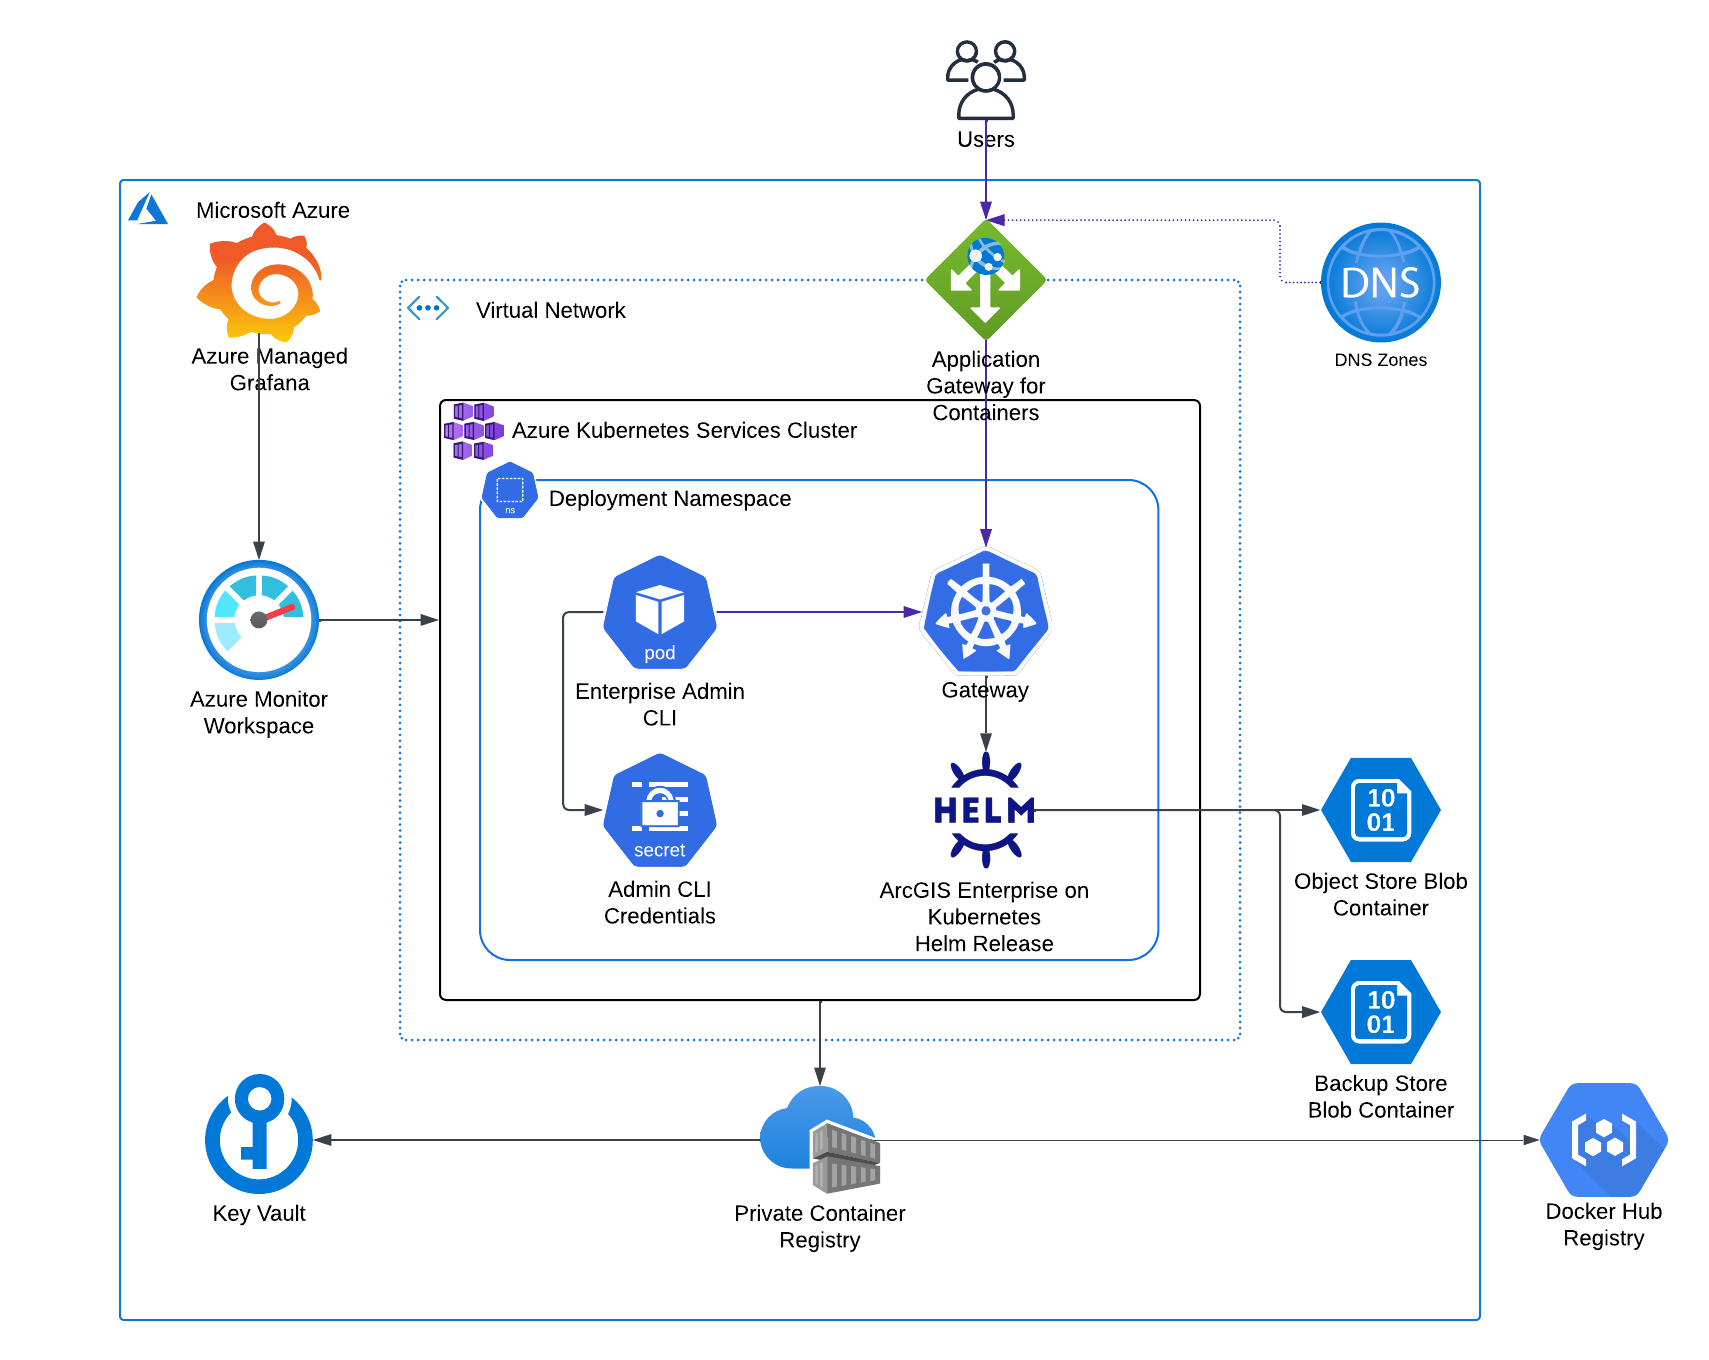
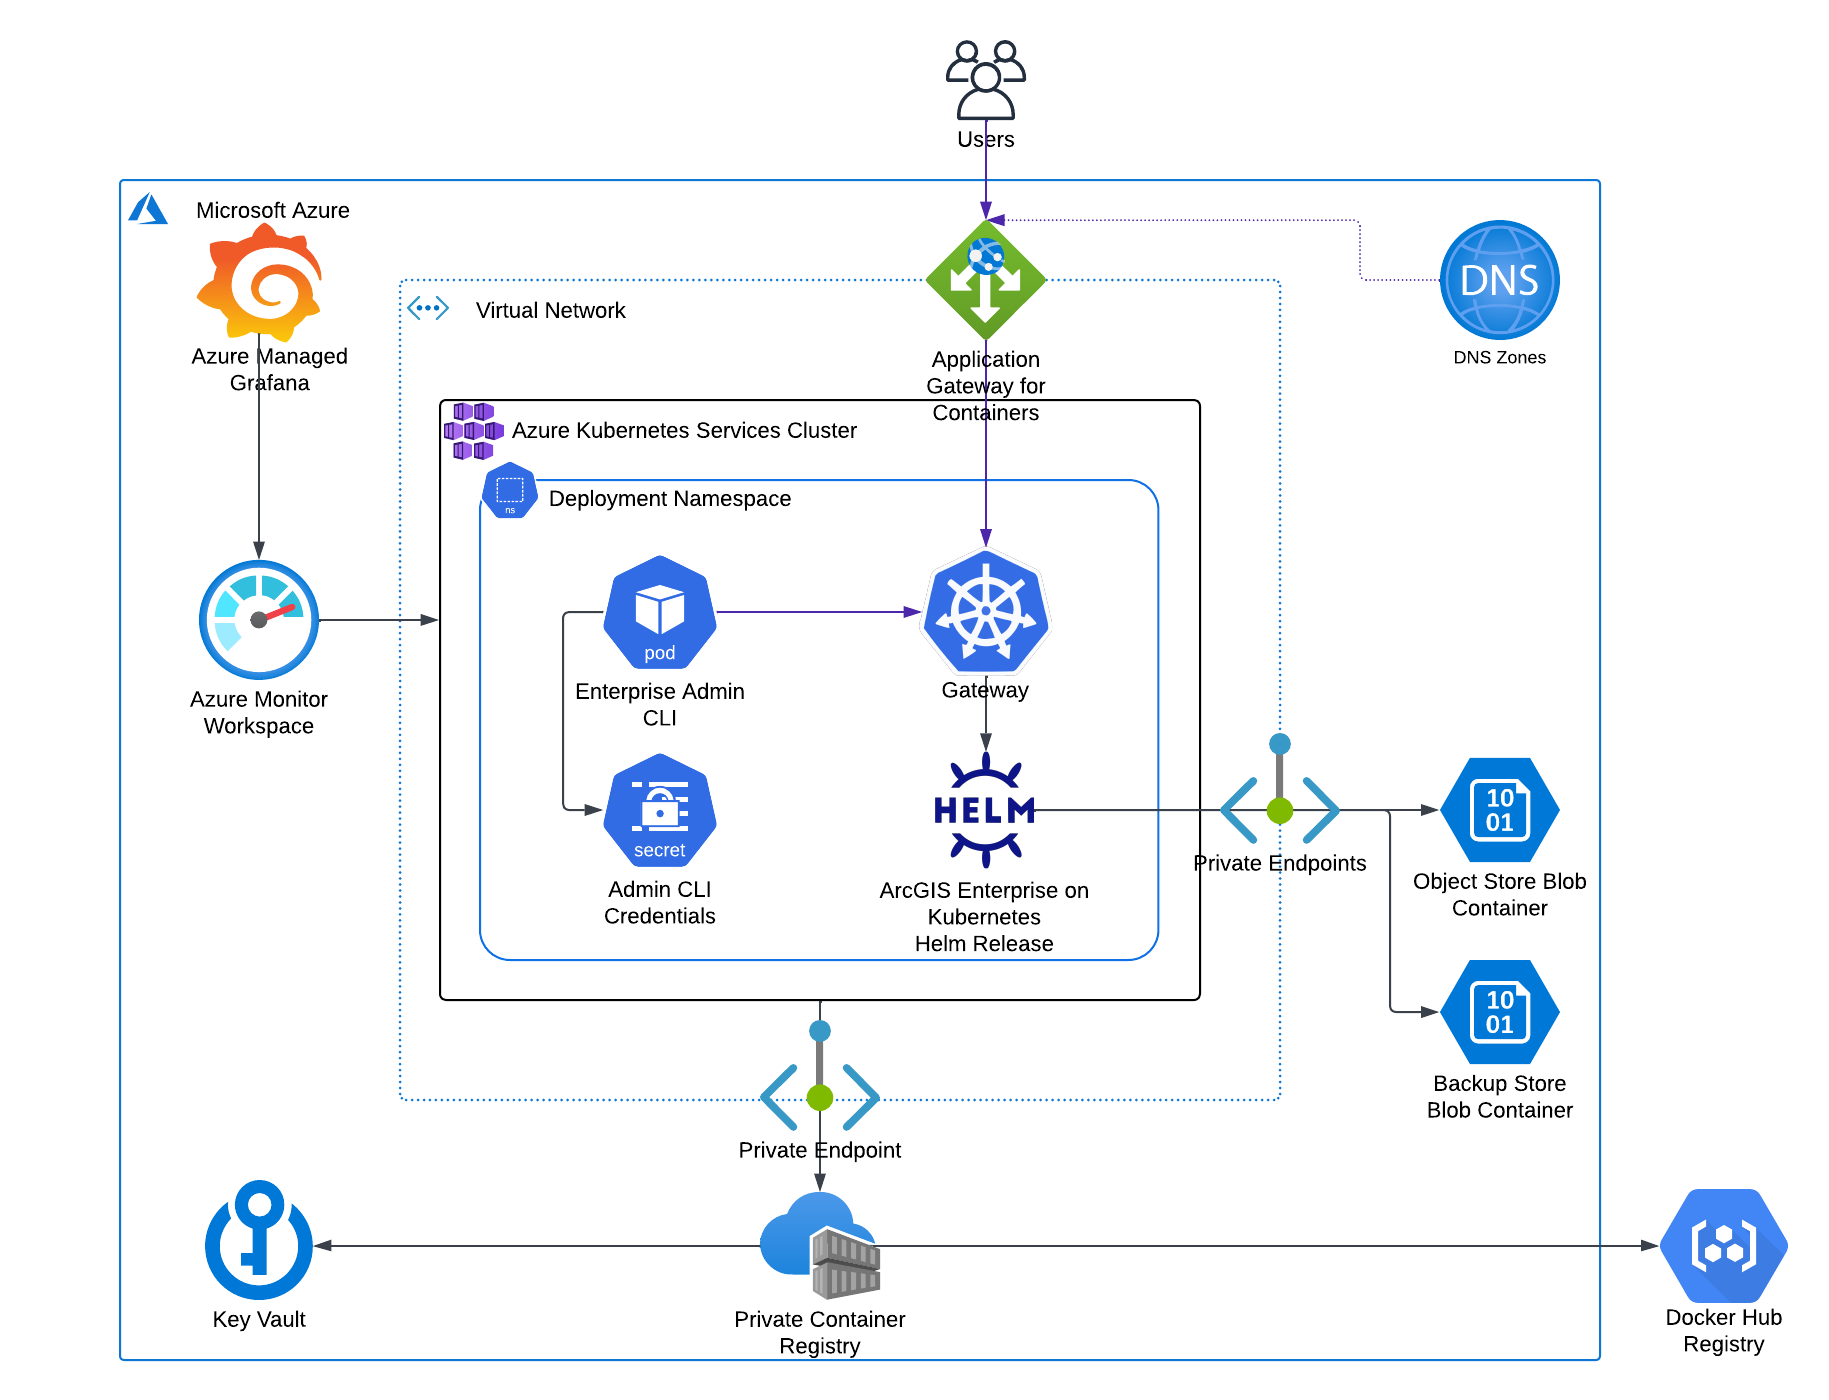
#132 Use private endpoints for Azure blob stores

diff --git a/azure/arcgis-site-core/infrastructure-core/README.md b/azure/arcgis-site-core/infrastructure-core/README.md
@@ -26,7 +26,6 @@ Attributes of the resources are stored as secrets in the Azure Key Vault created
 | internal-subnet-N | Id of internal subnet N |
 | private-subnet-N | Id of private subnet N |
 | storage-account-name | Storage account name |
-| storage-account-key | Storage account key |
 
 ## Requirements
 
@@ -52,7 +51,6 @@ Attributes of the resources are stored as secrets in the Azure Key Vault created
 | [azurerm_key_vault_secret.app_gateway_subnets](https://registry.terraform.io/providers/hashicorp/azurerm/latest/docs/resources/key_vault_secret) | resource |
 | [azurerm_key_vault_secret.internal_subnets](https://registry.terraform.io/providers/hashicorp/azurerm/latest/docs/resources/key_vault_secret) | resource |
 | [azurerm_key_vault_secret.private_subnets](https://registry.terraform.io/providers/hashicorp/azurerm/latest/docs/resources/key_vault_secret) | resource |
-| [azurerm_key_vault_secret.storage_account_key](https://registry.terraform.io/providers/hashicorp/azurerm/latest/docs/resources/key_vault_secret) | resource |
 | [azurerm_key_vault_secret.storage_account_name](https://registry.terraform.io/providers/hashicorp/azurerm/latest/docs/resources/key_vault_secret) | resource |
 | [azurerm_key_vault_secret.vnet](https://registry.terraform.io/providers/hashicorp/azurerm/latest/docs/resources/key_vault_secret) | resource |
 | [azurerm_nat_gateway.nat](https://registry.terraform.io/providers/hashicorp/azurerm/latest/docs/resources/nat_gateway) | resource |
@@ -68,6 +66,9 @@ Attributes of the resources are stored as secrets in the Azure Key Vault created
 | [azurerm_network_security_rule.allow_http_outbound](https://registry.terraform.io/providers/hashicorp/azurerm/latest/docs/resources/network_security_rule) | resource |
 | [azurerm_network_security_rule.allow_https_inbound](https://registry.terraform.io/providers/hashicorp/azurerm/latest/docs/resources/network_security_rule) | resource |
 | [azurerm_network_security_rule.allow_ssh_rdp_outbound](https://registry.terraform.io/providers/hashicorp/azurerm/latest/docs/resources/network_security_rule) | resource |
+| [azurerm_private_dns_zone.blob_private_dns_zone](https://registry.terraform.io/providers/hashicorp/azurerm/latest/docs/resources/private_dns_zone) | resource |
+| [azurerm_private_dns_zone_virtual_network_link.blob_private_dns_zone_virtual_network_link](https://registry.terraform.io/providers/hashicorp/azurerm/latest/docs/resources/private_dns_zone_virtual_network_link) | resource |
+| [azurerm_private_endpoint.site_store_private_endpoint](https://registry.terraform.io/providers/hashicorp/azurerm/latest/docs/resources/private_endpoint) | resource |
 | [azurerm_public_ip.bastion](https://registry.terraform.io/providers/hashicorp/azurerm/latest/docs/resources/public_ip) | resource |
 | [azurerm_public_ip.nat](https://registry.terraform.io/providers/hashicorp/azurerm/latest/docs/resources/public_ip) | resource |
 | [azurerm_resource_group.site_rg](https://registry.terraform.io/providers/hashicorp/azurerm/latest/docs/resources/resource_group) | resource |

diff --git a/azure/arcgis-enterprise-k8s/organization/modules/storage/README.md b/azure/arcgis-enterprise-k8s/organization/modules/storage/README.md
@@ -5,6 +5,7 @@ The module:
 
 * Creates an Azure resource group for the organization's stores,
 * Creates an Azure storage account and a blob container for the organization's object store,
+* Creates an Azure private endpoint for the blob store,
 * Grants the specified principal Storage Blob Data Contributor role in the storage accounts, and
 * Creates cloud config JSON file for the object store.
 
@@ -20,12 +21,14 @@ The module:
 
 | Name | Type |
 |------|------|
+| [azurerm_private_endpoint.object_store_private_endpoint](https://registry.terraform.io/providers/hashicorp/azurerm/latest/docs/resources/private_endpoint) | resource |
 | [azurerm_resource_group.storage](https://registry.terraform.io/providers/hashicorp/azurerm/latest/docs/resources/resource_group) | resource |
 | [azurerm_role_assignment.storage_blob_data_contributor](https://registry.terraform.io/providers/hashicorp/azurerm/latest/docs/resources/role_assignment) | resource |
 | [azurerm_storage_account.deployment_storage](https://registry.terraform.io/providers/hashicorp/azurerm/latest/docs/resources/storage_account) | resource |
 | [azurerm_storage_container.object_store](https://registry.terraform.io/providers/hashicorp/azurerm/latest/docs/resources/storage_container) | resource |
 | [local_sensitive_file.cloud_config_json_file](https://registry.terraform.io/providers/hashicorp/local/latest/docs/resources/sensitive_file) | resource |
 | [random_id.storage_account_suffix](https://registry.terraform.io/providers/hashicorp/random/latest/docs/resources/id) | resource |
+| [azurerm_private_dns_zone.blob_private_dns_zone](https://registry.terraform.io/providers/hashicorp/azurerm/latest/docs/data-sources/private_dns_zone) | data source |
 
 ## Inputs
 
@@ -37,6 +40,7 @@ The module:
 | deployment_id | ArcGIS Enterprise deployment Id | `string` | `"arcgis-enterprise-k8s"` | no |
 | principal_id | Principal Id of the AKS cluster identity | `string` | n/a | yes |
 | site_id | ArcGIS Enterprise site Id | `string` | `"arcgis-enterprise"` | no |
+| subnet_id | Subnet Id of the private endpoint | `string` | n/a | yes |
 
 ## Outputs
 

diff --git a/azure/arcgis-site-core/k8s-cluster/README.md b/azure/arcgis-site-core/k8s-cluster/README.md
@@ -70,6 +70,7 @@ On the machine where Terraform is executed:
 | container_registry_user | Source container registry user name | `string` | `null` | no |
 | default_node_pool | <p>Default AKS node pool configuration properties:</p>   <ul>   <li>name - The name which should be used for the default Kubernetes Node Pool</li>   <li>vm_size - The size of the Virtual Machine</li>   <li>os_disk_size_gb - The size of the OS Disk which should be used for each agent in the Node Pool</li>   <li>node_count - The initial number of nodes which should exist in this Node Pool</li>   <li>max_count - The maximum number of nodes which should exist in this Node Pool</li>   <li>min_count - The minimum number of nodes which should exist in this Node Pool</li>   </ul> | ```object({ name = string vm_size = string os_disk_size_gb = number node_count = number max_count = number min_count = number })``` | ```{ "max_count": 8, "min_count": 4, "name": "default", "node_count": 4, "os_disk_size_gb": 1024, "vm_size": "Standard_D8s_v5" }``` | no |
 | site_id | ArcGIS Enterprise site Id | `string` | `"arcgis-enterprise"` | no |
+| subnet_id | AKS cluster subnet ID | `string` | `null` | no |
 
 ## Outputs
 

diff --git a/aws/arcgis-enterprise-k8s/README.md b/aws/arcgis-enterprise-k8s/README.md
@@ -198,6 +198,6 @@ When deploying ArcGIS Enterprise on Kubernetes in disconnected environments:
 
 1. Make sure that the EKS cluster nodes are running in "internal" subnets.
 2. When creating ingress with arcgis-enterprise-k8s-ingress workflow, set "internal_load_balancer" property to `true` in ingress.tfvars.json config file.
-3. Use private Route53 VPC hosted zone for the deployment DNS as public DNS servers are not available.
+3. Use private Route53 VPC hosted zone for the deployment DNS because public DNS servers are not available.
 
 > The disconnected deployments cannot access the system and application internet services such as ArcGIS Online, My Esri, Esri license server, package repositories, pollination services, and time services.

diff --git a/azure/arcgis-enterprise-k8s/organization/README.md b/azure/arcgis-enterprise-k8s/organization/README.md
@@ -11,7 +11,7 @@ The Helm charts package for the version used by the deployment must be extracted
 The module:
 
 1. Creates a Kubernetes pod to execute Enterprise Admin CLI commands,
-2. Creates an Azure storage account and a blob container for the organization object store,
+2. Creates an Azure storage account with private endpoint for the blob store and a blob container for the organization object store,
 3. Create Helm release to deploy ArcGIS Enterprise on Kubernetes,
 4. Updates the DR settings to use the specified storage class and size for staging volume,
 5. Registers backup store using blob container in azure storage account specified by "storage-account-name" Key Vault secret.

diff --git a/azure/arcgis-site-core/README.md b/azure/arcgis-site-core/README.md
@@ -42,8 +42,9 @@ Required service principal roles:
 Instructions:
 
 1. Set "default_node_pool" properties to the required node pool configuration.
-2. Commit the changes to the `main` branch and push the branch to GitHub.
-3. Run site-k8s-cluster-azure workflow using the `main` branch.
+2. If a specific subnet is required for the AKS cluster, set "subnet_id" property to the subnet Id from the site's VNet. By default, the first private subnet is used.
+3. Commit the changes to the `main` branch and push the branch to GitHub.
+4. Run site-k8s-cluster-azure workflow using the `main` branch.
 
 ## Destroy K8s Cluster
 

diff --git a/azure/arcgis-enterprise-k8s/README.md b/azure/arcgis-enterprise-k8s/README.md
@@ -187,3 +187,12 @@ Inputs:
 Instructions:
 
 1. Run enterprise-k8s-azure-destroy workflow using the branch.
+
+## Disconnected Environments
+
+When deploying ArcGIS Enterprise on Kubernetes in disconnected environments:
+
+1. Make sure that the AKS cluster nodes are running in "internal" subnets.
+2. Use private DNS hosted zone for the deployment DNS.
+
+> The disconnected deployments cannot access the system and application internet services such as ArcGIS Online, My Esri, Esri license server, package repositories, pollination services, and time services.
